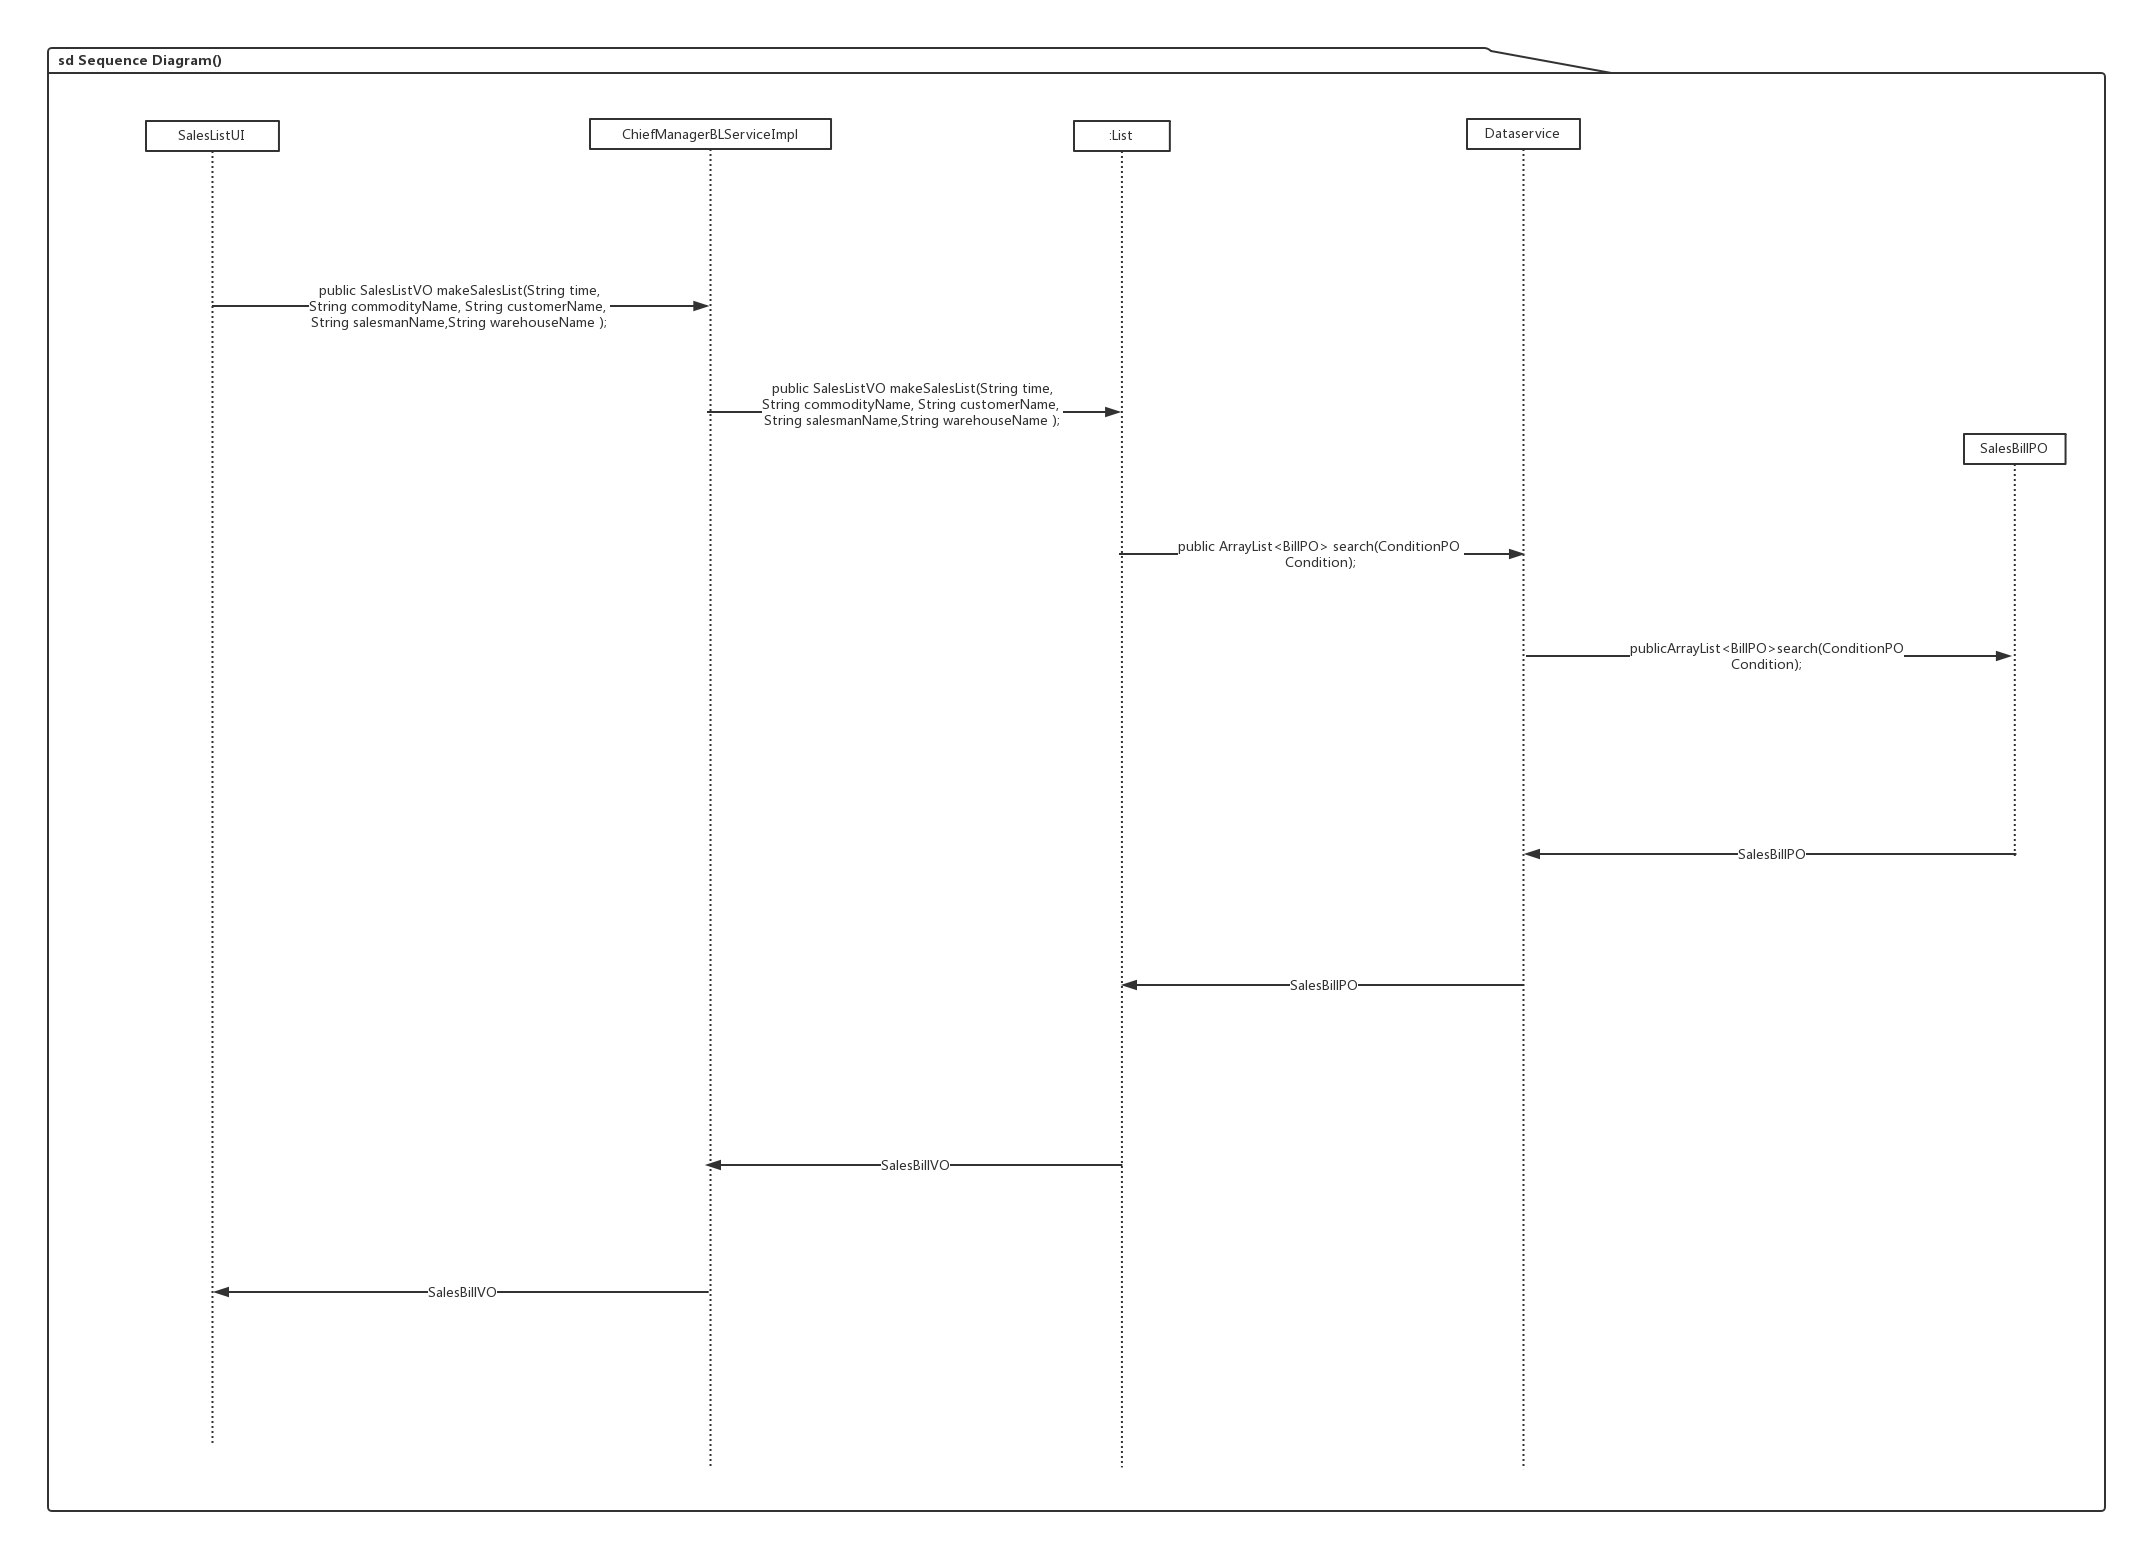
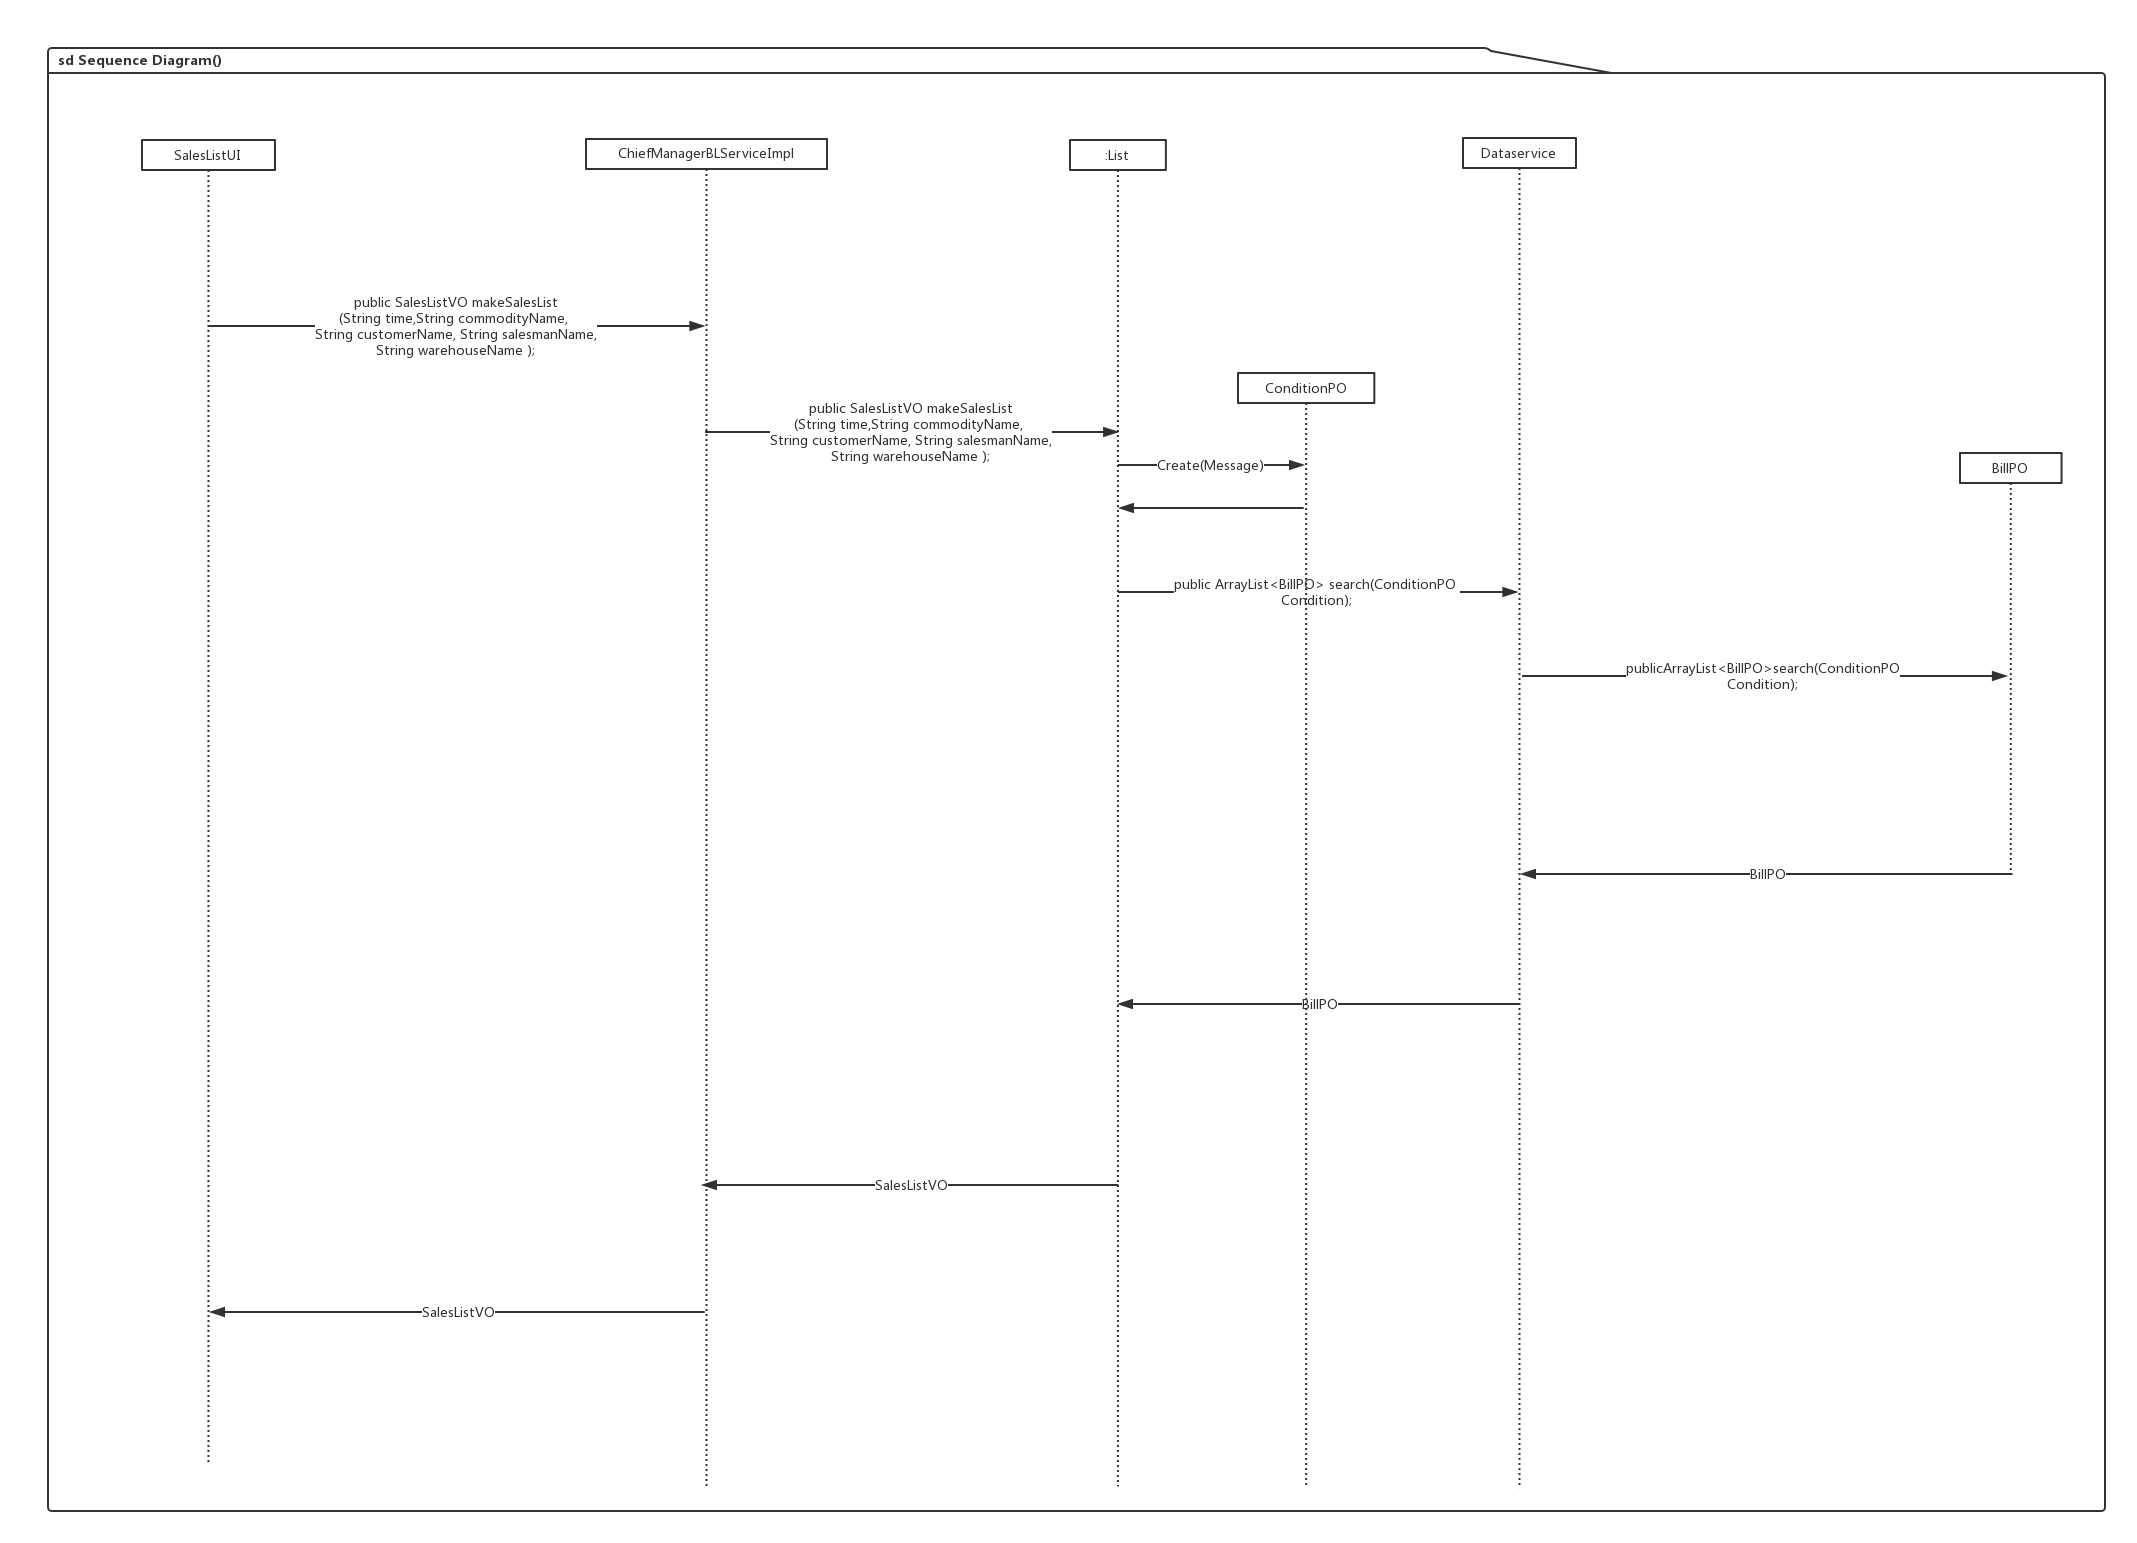
update 查看经营情况表顺序图，查看销售明细表顺序图，详细设计文档

diff --git a/doc/md/进销存管理系统MSPSS详细设计文档.md b/doc/md/进销存管理系统MSPSS详细设计文档.md
@@ -354,3 +354,108 @@ BusinessTableController的接口规范
 
 #### 4.2.4 chiefmanger模块
 
+(1)模块概述
+
+chiefmanagerbl模块承担的需求参见需求规格说明文档功能需求及其他相关非功能需求
+
+chiefmanagerbl模块的职责及接口参加软件系统结构描述文档
+
+(2)整体结构
+
+根据体系结构的设计，我们将系统分为展示层、业务逻辑层、数据层。每一层之间为了增加灵活性，我们会添加接口。比如展示层和业务逻辑层之间我们添加businesslogicservice.chiefmanegerblservice.chiefmanagerBLService接口。业务逻辑层和数据层之间添加dataservice.systemDataService接口和dataservice.billDataservice接口。为了隔离业务逻辑职责和逻辑控制职责，我们增加了List和Promotion对象，这样chiefmanagerblServiceImpl会将查看报表和制定促销策略的业务逻辑分别委托给List对象和Promotion对象。BillPO、ConditionPO、LogPO、SalesBillPO、PromotionPO是作为持久化对象被添加到设计模型中去的。
+
+chiefmanagernbl模块的职责如下表所示
+
+| 模块                         | 职责                                       |
+| -------------------------- | ---------------------------------------- |
+| ChiefManaagerBLServiceImpl | 实现查询日志和审批单据的简单服务，管理查看报表和制定促销策略的服务，负责与其他模块的交互 |
+| List                       | 实现处理查看报表的服务                              |
+| Promotion                  | 实现制定促销策略的服务                              |
+
+（3）模块内部类的接口规范
+
+ChiefmanagerBLServiceImpl的接口规范
+
+| 提供的服务（供接口）                               |                         |                                          |
+| ---------------------------------------- | ----------------------- | ---------------------------------------- |
+| ChiefManagerBLServiceImpl.checkLimit     | 语法                      | public boolean checkLimit(int id,String serviceType); |
+| 前置条件                                     | 用户已经成功登陆                |                                          |
+| 后置条件                                     | 返回一个布尔值表示用户是否有使用申请功能的权限 |                                          |
+| ChiefManagerBLServiceImpl.exportList     | 语法                      | public boolean exportList(ListVO listVO); |
+| 前置条件                                     | 有符合条件的表单                |                                          |
+| 后置条件                                     | 导出excel格式的表单            |                                          |
+| ChiefManagerBLServiceImpl.emptyCondition | 语法                      | public  boolean emptyCondition();        |
+| 前置条件                                     | 用户有搜索销售明细表的权限           |                                          |
+| 后置条件                                     | 清空用户输入的搜索条件             |                                          |
+| ChiefManagerBLServiceImpl.exit           | 语法                      | public void exit();                      |
+| 前置条件                                     | 用户位于具体功能界面              |                                          |
+| 后置条件                                     | 系统返回总经理登陆后的起始界面         |                                          |
+| ChiefManagerBLServiceImpl.makeSalesList  | 语法                      | public SalesListVO makeSalesList(String time,String commodityName, String customerName, String salesmanName,String warehouseName ); |
+| 前置条件                                     | 用户有查看销售明细表的权限           |                                          |
+| 后置条件                                     | 返回用户要求的销售明细表            |                                          |
+| ChiefManagerBLServiceImpl.makeManageList | 语法                      | public ManageListVO makeManageList(String time); |
+| 前置条件                                     | 用户有查看经营情况表的权限           |                                          |
+| 后置条件                                     | 返回用户要求的经营情况表            |                                          |
+| ChiefManagerBLServiceImpl.showLogList    | 语法                      | public LogListVO showLogList();          |
+| 前置条件                                     | 用户有查询日志的权限              |                                          |
+| 后置条件                                     | 返回系统日志列表                |                                          |
+| ChiefManagerBLServiceImpl.showLogDetail  | 语法                      | public LogVO showLogDetail(int id);      |
+| 前置条件                                     | 用户有查询日志的权限              |                                          |
+| 后置条件                                     | 返回该条日志的详细信息             |                                          |
+| ChiefManagerBLServiceImpl.showBillList   | 语法                      | public BillListVO showBillList(boolean isExamined)； |
+| 前置条件                                     | 用户有审批单据的权限              |                                          |
+| 后置条件                                     | 返回待审批单据列表               |                                          |
+| ChiefManagerBLServiceImpl.changeBillState | 语法                      | public ArrayList<BillVO> changeBillState(ArrayList<BillVO> billVOArray),boolean pass); |
+| 前置条件                                     | 待审批单据列表不为空              |                                          |
+| 后置条件                                     | 改变单据的审批状态为批准或不批准        |                                          |
+| ChiefManagerBLServiceImpl.updateBillData | 语法                      | public void updateBillData(ArrayList<BillVO billVOArray>); |
+| 前置条件                                     | 有单据被审批                  |                                          |
+| 后置条件                                     | 将审批后的单据信息更新到数据库中        |                                          |
+| ChiefManagerBLServiceImpl.sendMessage    |                         |                                          |
+| ChiefManagerBLServiceImpl.showBillDetail | 语法                      | public BillVO showBillDetail(String id); |
+| 前置条件                                     | 待审批单据列表不为空              |                                          |
+| 后置条件                                     | 返回一张单据的详细内容             |                                          |
+| ChiefManagerBLServiceImpl.choosePromotionType | 语法                      | public PromotionVO choosePromotionType(String type); |
+| 前置条件                                     | 用户有权限制定促销策略             |                                          |
+| 后置条件                                     | 返回类型对应的VO               |                                          |
+| ChiefManagerBLServiceImpl.setPromotionTime | 语法                      | public PromotionVO setPromotionTime(PromotionVO promotionVO); |
+| 前置条件                                     | 用户有权限制定促销策略             |                                          |
+| 后置条件                                     | 返回修改了起始时间的PromotionVo   |                                          |
+| ChiefManagerBLServiceImpl.checkPromotionInfo | 语法                      | public boolean checkPromotionInfo(PromotionVO promotionVO) |
+| 前置条件                                     | 用户有权限制定促销策略             |                                          |
+| 后置条件                                     | 检查用户传入促销策略信息的正确性        |                                          |
+| ChiefManagerBLServiceImpl.ShowPromotionList | 语法                      | public PromotionListVO ShowPromotionList(); |
+| 前置条件                                     | 用户有权限制定促销策略             |                                          |
+| 后置条件                                     | 显示当前存在的促销策略列表           |                                          |
+| ChiefManagerBLServiceImpl.updatePromotionInfo | 语法                      | public void updatePromotionInfo(PromotionVO promotionVO); |
+| 前置条件                                     | 用户制定促销策略成功              |                                          |
+| 后置条件                                     | 更新数据库中的促销策略信息           |                                          |
+| 需要的服务（需接口）                               |                         |                                          |
+| 服务名                                      | 服务                      |                                          |
+| SystemData.userData.findUser             | 根据id查找对应的userPO         |                                          |
+| SystemDataService.LogDataService.findLog | 根据ID查找对应的LogPO          |                                          |
+| SystemDataService.promotionDataService.find | 查找参数类型对应的所有PromotionPO  |                                          |
+| List.makeSalesList                       | 创建一个销售明细表               |                                          |
+| List.makeManageList                      | 创建一个经营情况表               |                                          |
+| Promotion.choosePromotionType            | 返回选择的促销策略类型             |                                          |
+| Promotion.setPromotionTime               | 设置促销类型的时间               |                                          |
+| Promotion.checkPromotionInfo             | 检查促销策略信息的合法性            |                                          |
+| Promotion.ShowPromotionList              | 显示当前已有的促销策略列表           |                                          |
+| Promotion.updatePromotionInfo            | 更新促销策略信息                |                                          |
+
+List的接口规范
+
+| 提供的服务（供接口）                   |                       |                                          |
+| ---------------------------- | --------------------- | ---------------------------------------- |
+| List.makeSalesList           | 语法                    | public SalesListVO makeSalesList(String time,String commodityName, String customerName, String salesmanName,String warehouseName ); |
+| 前置条件                         | 用户有查看销售明细表的权限         |                                          |
+| 后置条件                         | 返回用户要求的销售明细表          |                                          |
+| List.makeManageList          | 语法                    | public ManageListVO makeManageList(String time); |
+| 前置条件                         | 用户有查看经营情况表的权限         |                                          |
+| 后置条件                         | 返回用户要求的经营情况表          |                                          |
+| 需要的服务（需接口）                   |                       |                                          |
+| BillDataService.findSaleBill | 根据搜索条件查找对应的saleBillPP |                                          |
+| BillDataService.findBill     | 查找符合条件的所有类型的单据PO      |                                          |
+| BillDataService.updateBill   | 改变BillPO中的数据          |                                          |
+
+（4）业务逻辑层内部动态模型
